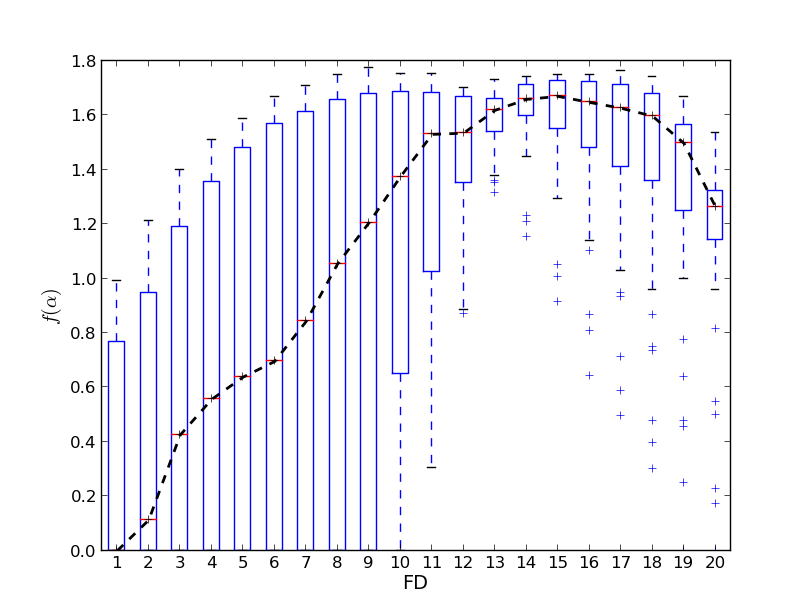
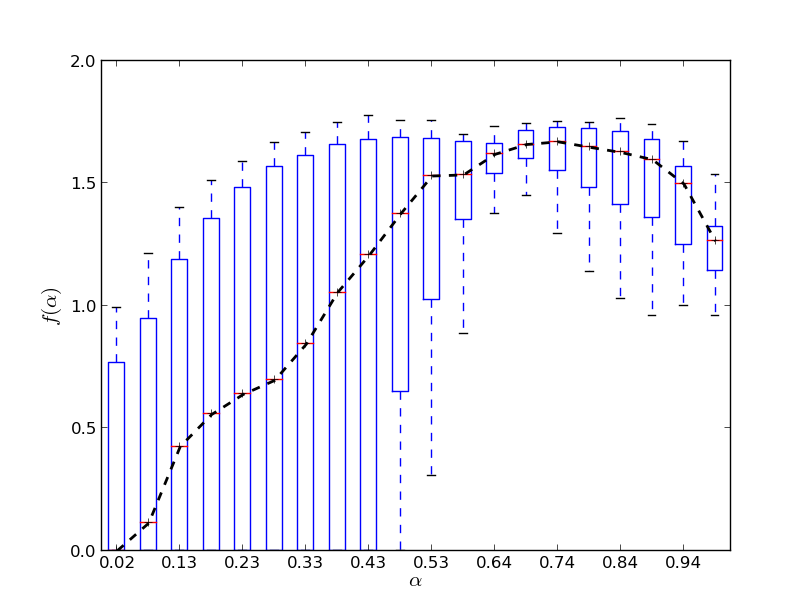
correcciones claudio

diff --git a/paper/template.tex b/paper/template.tex
@@ -122,7 +122,7 @@ Fractal and multifractal analysis of images have pro\-ved to be able to capture 
 
 Data analysis of the results of the feature extraction process is useful for obtaining key properties of materials. This information could then be used in quality measurements of real samples and in the validation of synthetic representations of them. In other words, these processes are useful to determine if a given image presents the observed features in that material, allowing to associate quality measure parameters to it. In~\cite{Fan2006}, a bread crumb quality test based on Gabor filters was performed, obtaining good results. Nevertheless, a small database was used ($30$ images). In \cite{Gonzales2008} several fractal features were obtained for one type of bread, demonstrating that a vector of FDs would be capable of obtaining key features of the crumb texture more accurately than using a single FD.
 
-In this work we propose the application of the Multifractal Spectrum (MFS) \cite{Xu2006} to describe and classify different bread crumb types. One of the main features of the MFS is its bi-Lipschitz invariance, that is, invariance to perspective transforms (viewpoint changes) and smooth texture surface deformations. It is shown that the MFS is also locally invariant to affine changes in illumination. These features are useful to describe bread crumb structures in a robust way that results adequate for the purposes of this study.
+In this work we propose the application of the Multifractal Spectrum (MFS) \cite{Xu2009} to describe and classify different bread crumb types. One of the main features of the MFS is its bi-Lipschitz invariance, that is, invariance to perspective transforms (viewpoint changes) and smooth texture surface deformations. It is shown that the MFS is also locally invariant to affine changes in illumination. These features are useful to describe bread crumb structures in a robust way that results adequate for the purposes of this study.
 
 The proposed method is compared to other classifiers that use state-of-the-art features for texture classification. The results of this feature extraction procedure show that the classifier is robust and presents good discrimination properties to distinguish between different bread types and also bread from non bread images.
 
@@ -192,9 +192,10 @@ A practical algorithm for computing $D_{b}$ in digital binarised images establis
 
 \begin{figure*}[htb]
 \centering
-$\vcenter{\hbox{\includegraphics[scale=1.8]{images/salvado19}}}$
-$\vcenter{\hbox{\includegraphics[scale = 0.4]{images/fitbox2}}}$
-\caption{A bread image (left) and its computed box dimension (right)}
+$\vcenter{\hbox{\includegraphics[scale=1.35]{images/salvado19}}}$
+$\vcenter{\hbox{\includegraphics[scale = 0.3]{images/bin}}}$
+$\vcenter{\hbox{\includegraphics[scale = 0.35]{images/fitbox2}}}$
+\caption{A bread image (left) with its binarisation (center) and its computed box dimension (right)}
 \label{fig:fitbox}
 \end{figure*}
 
@@ -242,25 +243,12 @@ f(\alpha) = \lim_{\epsilon\to0}{f_{\epsilon}(\alpha)}.
 \end{equation}
 
 \subsubsection{Practical procedure for the MFS}
-There are several techniques described in the literature to obtain the MFS, which lead to different representations of the multifractal information present in the structure. Usually, the method of moments is used \cite{Mendoza2010,Serrano2012}, but it produces a feature vector which is not always suitable for classification tasks. In this work, the implementation presented in \cite{Xu2006} is employed, due to its better classification performance. The implementation first calculates the method of moments and then uses a Legendre transform to obtain the MFS. The procedure consists in partitioning the domain into non-overlapping boxes of length $\epsilon$. For $x \in \mathbb{R}^{2}$, denote $B(x,\epsilon)$ the closed disk of radius $\epsilon > 0$ centered at $x$. The $q$-th moment of the measure $\mu$ is defined as
-\begin{equation}
-M_{\epsilon}(q) = \sum{\mu(B(x,\epsilon))^{q}},
-\label{eqn:eqn8}
-\end{equation}
-where the sum is over the $\epsilon$-mesh squares for which $\mu(B(x,\epsilon)) > 0$. To denote the power law behavior of $M_{\epsilon}(q)$, $\beta(q)$ is defined as a straight line fit of the values $M_{\epsilon}(q)$ with respect to $\epsilon$, for $\epsilon$ in $1,..,n$. It is shown in \cite{Falconer97}, that the MFS (see Eq.~(\ref{eqn:eqn7})) and $\beta(q)$ are related to each other by a Legendre transform as
+There are several techniques described in the literature to obtain the MFS, which lead to different representations of the multifractal information present in the structure. Usually, the method of moments is used \cite{Mendoza2010,Serrano2012}, but it produces a feature vector which is not always suitable for classification tasks. In this work, the implementation presented in \cite{Xu2009} is employed, due to its better classification performance.
 
-\begin{equation}
-f(\alpha(q)) = q \alpha(q) - \beta(q),
-\label{eqn:eqn9}
-\end{equation}
-where
+The implementation first computes $\alpha(x)$ for each pixel $x$ of the image. Denote $B(x,\epsilon)$ the closed disk of radius $\epsilon > 0$ centered at $x$, then, $\alpha(x)$ is defined as a straight line fit of the values $log(\mu(B(x,\epsilon)))$ and $log(\epsilon)$. Then, a discrete sample set $\{\alpha_{i}, i = 1,\dots,M\}$ is taken from the interval $[0,1]$, and the point set corresponding to that value of $\alpha_{i}$ is formed by grouping the values that are close to that $\alpha_{i}$ under some threshold. The FD for each point set is computed as the straight line fit of the values $log(\mu((N_{\epsilon}(\alpha_{i}))$ and $log(\epsilon)$. The value M determines the vector's length, {\em i.e.}. the number of FDs of the MFS.
 
-\begin{equation}
-\alpha(q) = \frac{d\beta(q)}{dq}.
-\label{eqn:eqn10}
-\end{equation}
 
-As previously stated, the $f(\alpha)$ spectrum (MFS) and the generalized dimensions $\beta(q)$ contain the same information, but in this work the first is employed, since it also outperforms the method of moments in classification tasks. Using (\ref{eqn:eqn9}) and (\ref{eqn:eqn10}) the MFS is estimated. The MFS defined produces a finite vector which is used as a feature vector in next sections. As previously said, in this work the implementation in \cite{Xu2006} is used and the parameters of the algorithm are set to default (except for the number of FDs, since they are chosen based on its classification performance).
+As previously stated, the $f(\alpha)$ spectrum (MFS) and the method of moments produce vectors which contains the same information, but in this work the first is employed, since it also outperforms the method of moments in classification tasks. This process produces a finite vector which is used as the feature vector in next sections. As previously said, in this work the implementation in \cite{Xu2009} is used and the parameters of the algorithm are set to default (except for the number of FDs, since they are chosen based on its classification performance).
 
 
 \subsubsection{Multifractal Measures}

diff --git a/scripts/classifier2d.py b/scripts/classifier2d.py
@@ -444,8 +444,14 @@ def main(subname,which,local,classifier):
     #plt.xlabel('SandwichC',fontsize=fsize)
     #plt.boxplot(np.vstack((sandwichC)))
     #plt.show()
-    xt = np.arange(0,20,2)
-    alpha = map(lambda i:i*0.05, xt)
+    xt = np.arange(1,20,2)
+    print xt
+    alpha = [   6.,   19.,   32.,   45.,   58.,   71.,   84.,   97.,  110.,  123. , 136. , 149.,
+  162.,  175.,  188.,  201. , 214. , 227. , 240.  ,253.]
+    alpha = map(lambda i:"%.2f" % float(i/255.), alpha)
+
+    alpha = alpha[0:len(alpha):2]
+    print alpha
 
     rB = plt.boxplot(np.vstack((baguette,baguetteC)), sym='')
     xticks(xt,alpha) # translate
@@ -740,8 +746,10 @@ def main(subname,which,local,classifier):
     # Graph for means
     plt.xlim(x1,x2)
     x = np.arange(cfeat)+1
+    plt.ylim((0, 2))
+    xticks(xt,alpha) # translate
     plt.ylabel(r'$mean$',fontsize=fsize)
-    plt.xlabel('FD',fontsize=fsize)
+    plt.xlabel(r'$\alpha$',fontsize=fsize)
     plt.plot(x, mean[0], 'ko--', label='baguette',linewidth=2.0)
     plt.plot(x, mean[1], 'ro--',  label='sliced',linewidth=2.0)
     plt.plot(x, mean[2], 'bo--',  label='bran',linewidth=2.0)
@@ -752,8 +760,9 @@ def main(subname,which,local,classifier):
 
     # Graph for standard deviations
     x = np.arange(cfeat)+1
+    xticks(xt,alpha) # translate
     plt.ylabel(r'$std$',fontsize=fsize)
-    plt.xlabel('FD',fontsize=fsize)
+    plt.xlabel(r'$\alpha$',fontsize=fsize)
     plt.xlim(x1,x2)
     plt.plot(x, std[0], 'ko--', label='baguette',linewidth=2.0)
     plt.plot(x, std[1], 'ro--',  label='sliced',linewidth=2.0)
